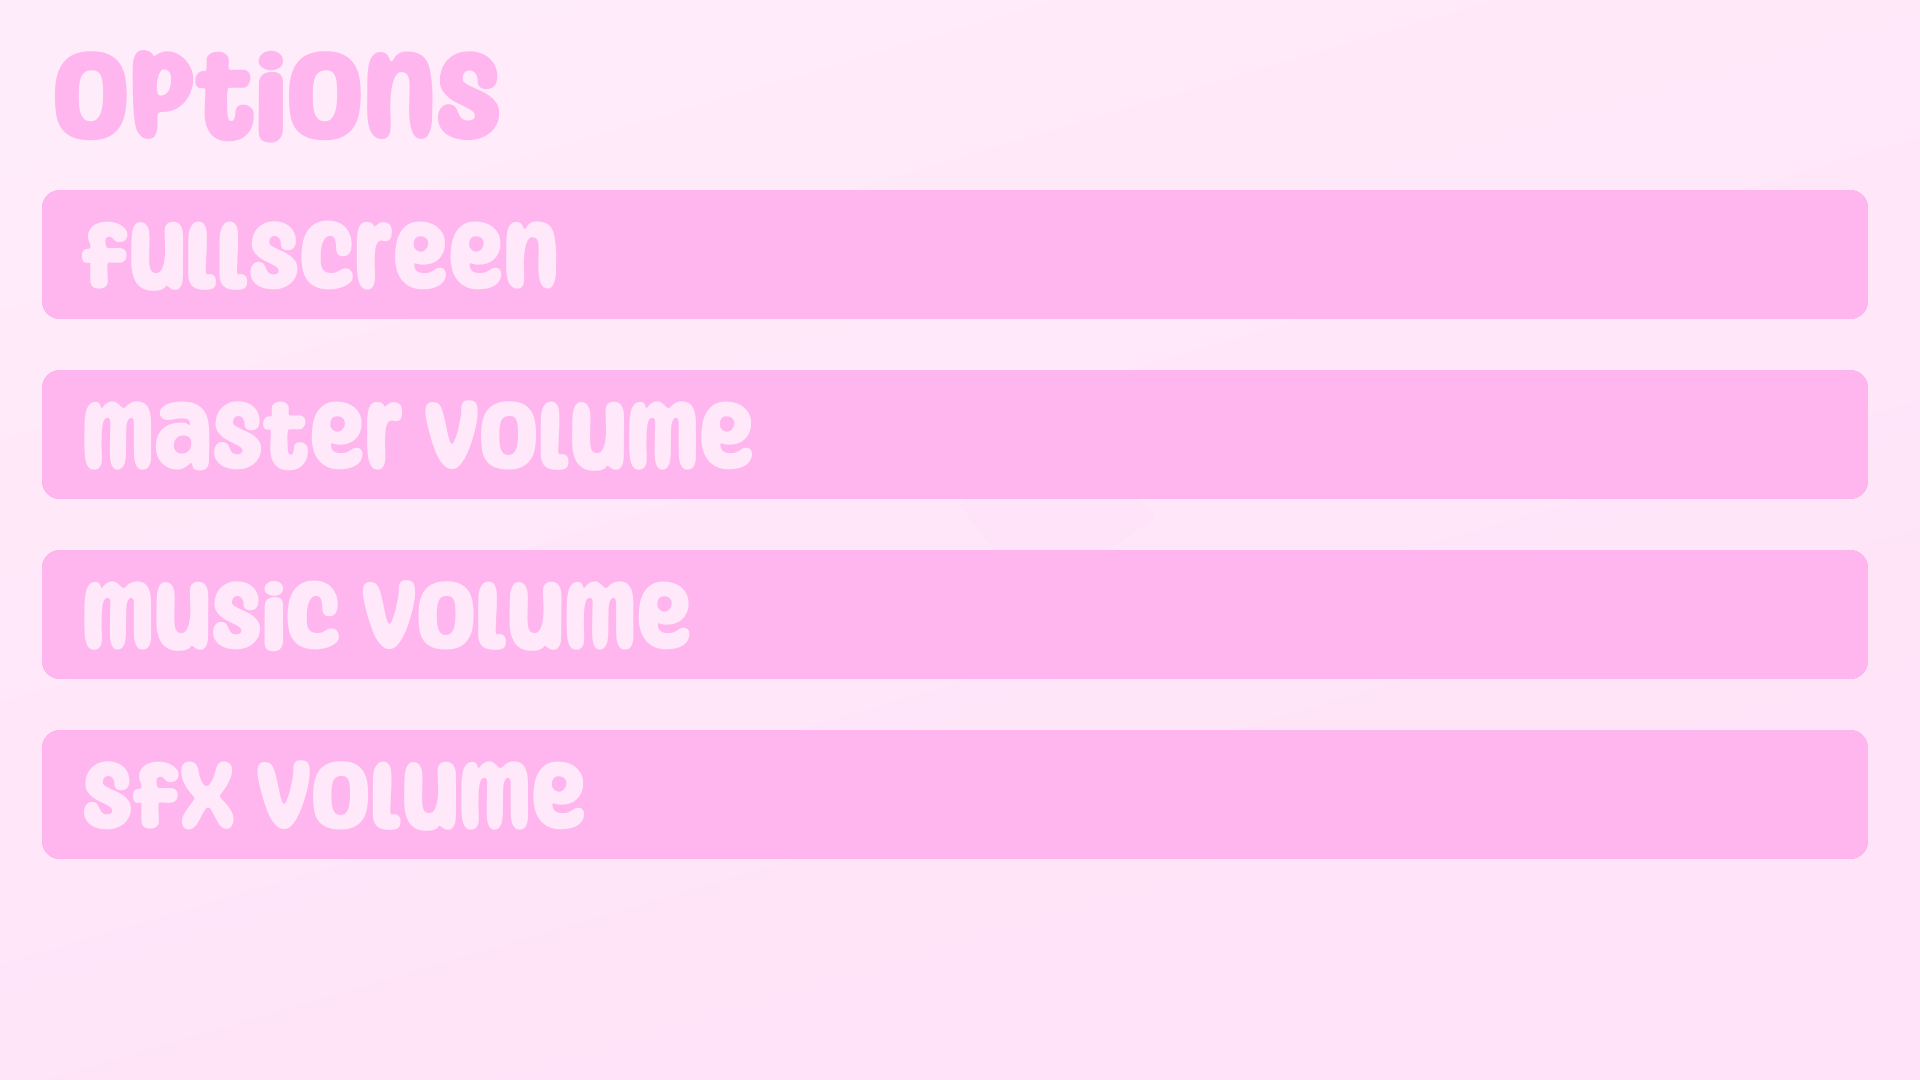
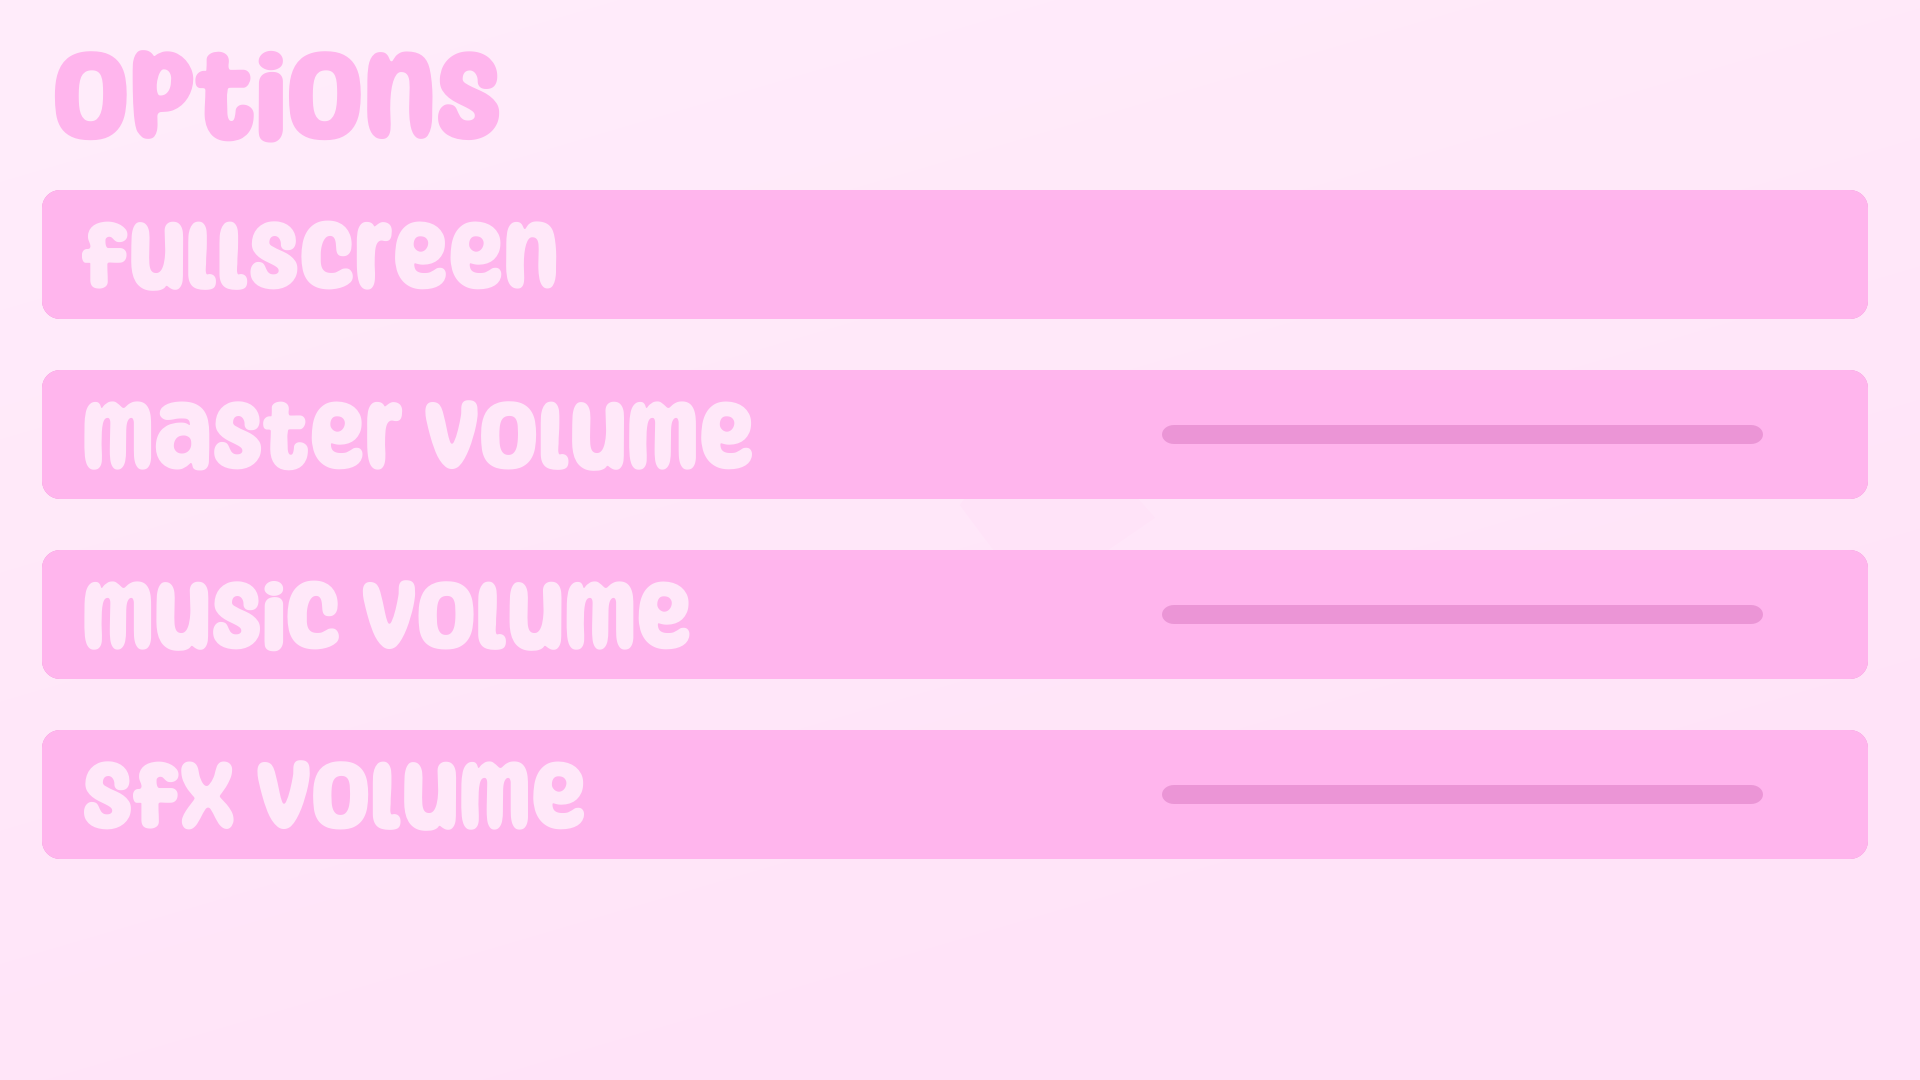
Added sliders and checkboxes to options menu

Changed region(s): [[0.5938, 0.7028, 0.9375, 0.7639], [0.5938, 0.3667, 0.9375, 0.4278], [0.5938, 0.55, 0.9375, 0.5806]]

diff --git a/randomcharactergenerator/main.py b/randomcharactergenerator/main.py
@@ -160,6 +160,81 @@ class Button(pg.sprite.Sprite):
         if pos[0] in (range(int(self.rect.left), int(self.rect.right))) and pos[1] in range(int(self.rect.top), int(self.rect.bottom)):
             return 1
 
+class Slider(pg.sprite.Sprite):
+    def __init__(self, groups, surfs, pos):
+        super().__init__(groups)
+        self.pos = pos
+        self.surfs = surfs
+        self.selected = False
+        self.in_use = False
+        self.image = self.surfs['unselected']
+        self.rect = self.image.get_frect(center = self.pos)
+        self.bounds = (self.rect.centerx - 600, self.rect.centerx)
+        self.idx = 100
+        
+    def update(self, display):
+        if not self.in_use:
+            if self.check_for_input():
+                self.selected = True
+                if pg.mouse.get_just_pressed()[0]:
+                    self.in_use = True
+            else:
+                self.selected = False
+            if self.selected:
+                if not pg.mouse.get_pressed()[0]:
+                    self.image = self.surfs['selected']
+            else:
+                self.image = self.surfs['unselected']
+        else: 
+            if not pg.mouse.get_pressed()[0]:
+                self.in_use = False
+            else: 
+                mouse_x = pg.mouse.get_pos()[0]
+                if mouse_x > self.bounds[0] and mouse_x < self.bounds[1]:
+                    self.rect.center = (mouse_x, self.pos[1])
+                self.idx = 100 - round((self.bounds[1] - self.rect.centerx) / 6)
+                return self.idx
+            
+
+    def check_for_input(self):
+        pos = (pg.mouse.get_pos())
+        if pos[0] in (range(int(self.rect.left), int(self.rect.right))) and pos[1] in range(int(self.rect.top), int(self.rect.bottom)):
+            return 1
+
+class Checkbox(pg.sprite.Sprite):
+    def __init__(self, groups, surfs, pos):
+        super().__init__(groups)
+        self.selected = False
+        self.surfs = surfs
+        self.pos = pos
+        self.image = self.surfs['unselected']
+        self.rect = self.image.get_frect(center = self.pos)
+        
+    def update(self, display):
+        if not self.selected: 
+            if self.check_for_input():
+                if not pg.mouse.get_pressed()[0]:
+                    self.image = self.surfs['unselected_hover']
+                if pg.mouse.get_just_pressed()[0]:
+                    self.selected = True
+            else: 
+                self.image = self.surfs['unselected']
+        else: 
+            if self.check_for_input():
+                if pg.mouse.get_just_pressed()[0]:
+                    self.image = self.surfs['unselected_hover']
+                    self.selected = False
+                elif not pg.mouse.get_pressed()[0]:
+                    self.image = self.surfs['selected_hover']
+            else: 
+                self.image = self.surfs['selected']
+        
+    def check_for_input(self):
+        pos = (pg.mouse.get_pos())
+        if pos[0] in (range(int(self.rect.left), int(self.rect.right))) and pos[1] in range(int(self.rect.top), int(self.rect.bottom)):
+            return 1
+        
+
 
 class Game:
 
@@ -210,8 +285,15 @@ class Game:
         }
         
         self.slider_surfs = {
-                             'base': pg.image.load(join('asseets', 'img', 'ui', 'slider.png')).convert_alpha(),
-                             'knob': pg.image.load(join('asseets', 'img', 'ui', 'slider_knob.png')).convert_alpha()
+                             'unselected': pg.image.load(join('assets', 'img', 'ui', 'slider_knob_unselected.png')).convert_alpha(),
+                             'selected': pg.image.load(join('assets', 'img', 'ui', 'slider_knob_selected.png')).convert_alpha()
+        }
+        
+        self.checkbox_surfs = {
+                               'unselected': pg.image.load(join('assets', 'img', 'ui', 'checkbox_unchecked.png')).convert_alpha(),
+                               'unselected_hover': pg.image.load(join('assets', 'img', 'ui', 'checkbox_unchecked_hover.png')).convert_alpha(),
+                               'selected': pg.image.load(join('assets', 'img', 'ui', 'checkbox_checked.png')).convert_alpha(),
+                               'selected_hover': pg.image.load(join('assets', 'img', 'ui', 'checkbox_checked_hover.png')).convert_alpha()
         }
         
         # Imports: Background Hearts
@@ -295,6 +377,11 @@ class Game:
         
         return_button = Button(self.options_sprites, 'return to start menu', self.return_button_surfs, (settings.W / 2, 965), self.font, 'dark')
         
+        fullscreen_checkbox = Checkbox(self.options_sprites, self.checkbox_surfs, (1480, 260))
+        master_volume_slider = Slider(self.options_sprites, self.slider_surfs, (1750, 430))
+        music_volume_slider = Slider(self.options_sprites, self.slider_surfs, (1750, 610))
+        sfx_volume_slider = Slider(self.options_sprites, self.slider_surfs, (1750, 790))
+                
         # Loop
         while self.running:
             self.dt = self.clock.tick() / 1000
